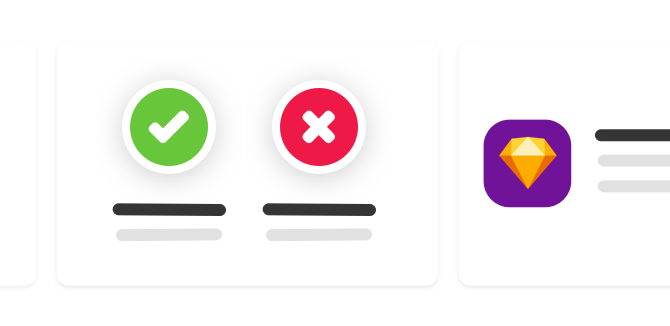
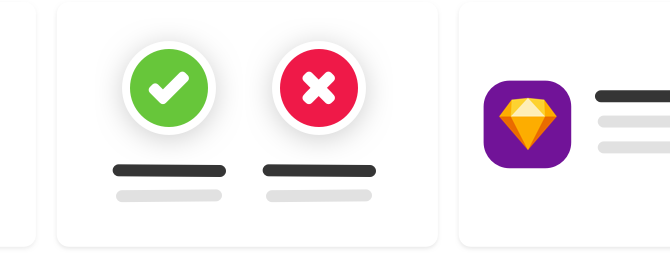
Responsive OK, need test

diff --git a/style.sass b/style.sass
@@ -18,10 +18,10 @@ $font-regular: 400
 $font-semibold: 600
 $font-bold: 700
 $font-extrabold: 800
-// $breakpoint-large: 960px
 $breakpoint-medium: 750px
 $breakpoint-medium-minus1: 749px
 $breakpoint-small: 576px
+$breakpoint-extra-small: 402px
 
 
 body
@@ -111,8 +111,6 @@ section
 .large-card
   max-width: 840px
   min-height: 360px
-  // @media (max-width: $breakpoint-medium)
-  //   min-height: 590px 
   margin-left: auto
   margin-right: auto
   background-position-x: right
@@ -123,12 +121,10 @@ section
     justify-content: space-between
   div:first-child
     max-width: 560px
-    margin-bottom: 30px
   div:last-child
-    @media (min-width: $breakpoint-medium)
-      width: 280px
-    @media (max-width: $breakpoint-medium)
-      height: 360px
+    @media (max-width: $breakpoint-medium-minus1)
+      // height: 360px
+      height: 260px
 
 
 @media (min-width: $breakpoint-medium)
@@ -156,18 +152,25 @@ section
 #formations
   background-color: $yellow
   color: $black
+  div:last-child
+    background-size: contain
+    background-repeat: no-repeat
+    background-position-y: center
   @media (min-width: $breakpoint-medium)
-    background-image: url('img/project_formations.png')
     div:last-child
+      background-image: url('img/project_formations.png')
       margin-left: 27px
+      margin-top: -30px
       flex: 0 0 18em
   @media (max-width: $breakpoint-medium-minus1)
     div:last-child
       background-image: url('img/project_formations_mobile.png')
       margin: 0 -30px
-      background-size: contain
-      background-repeat: no-repeat
-      background-position-y: center
+  @media (max-width: $breakpoint-extra-small)
+    div:last-child
+      height: 170px
+
+      
 
 #sunday
   background-color: $pink
@@ -182,6 +185,8 @@ section
 
 #asura
   background-color: $purple
+  div:first-child
+    margin-bottom: 30px
   div:last-child
     background-image: url('img/cats.png')
     background-repeat: no-repeat

diff --git a/style.css b/style.css
@@ -178,16 +178,10 @@ section {
 }
 .large-card div:first-child {
   max-width: 560px;
-  margin-bottom: 30px;
 }
-@media (min-width: 750px) {
+@media (max-width: 749px) {
   .large-card div:last-child {
-    width: 280px;
-  }
-}
-@media (max-width: 750px) {
-  .large-card div:last-child {
-    height: 360px;
+    height: 260px;
   }
 }
 
@@ -223,12 +217,16 @@ section {
   background-color: #FFD100;
   color: #000000;
 }
+#formations div:last-child {
+  background-size: contain;
+  background-repeat: no-repeat;
+  background-position-y: center;
+}
 @media (min-width: 750px) {
-  #formations {
-    background-image: url("img/project_formations.png");
-  }
   #formations div:last-child {
+    background-image: url("img/project_formations.png");
     margin-left: 27px;
+    margin-top: -30px;
     flex: 0 0 18em;
   }
 }
@@ -236,9 +234,11 @@ section {
   #formations div:last-child {
     background-image: url("img/project_formations_mobile.png");
     margin: 0 -30px;
-    background-size: contain;
-    background-repeat: no-repeat;
-    background-position-y: center;
+  }
+}
+@media (max-width: 402px) {
+  #formations div:last-child {
+    height: 170px;
   }
 }
 
@@ -259,6 +259,9 @@ section {
 
 #asura {
   background-color: #8B0BD2;
+}
+#asura div:first-child {
+  margin-bottom: 30px;
 }
 #asura div:last-child {
   background-image: url("img/cats.png");
